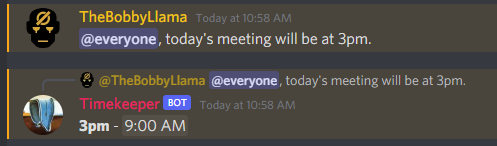
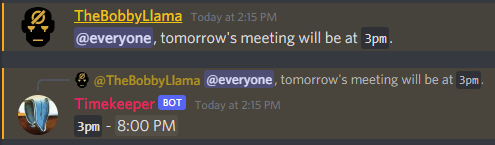
Timekeeper will now only convert times with code markdown (10:30 PM EST).  A user no longer needs to be set up in the system if they include the time zone (e.g. )

diff --git a/index.js b/index.js
@@ -1,5 +1,5 @@
 const firebaseAdmin = require("firebase-admin");
-const { Client, Intents, MessageActionRow, MessageSelectMenu } = require("discord.js");
+const { Client, Intents, MessageActionRow, MessageSelectMenu, MessageEmbed } = require("discord.js");
 const timezones = require("./timezones.json");
 const DST = require("./DST.json");
 const tzOverrides = require("./timezoneOverrides.json");
@@ -46,8 +46,6 @@ client.on("interactionCreate", async interaction => {
 
 		const tzResult = (await getUserInfo(interaction.user.id) || {});
 
-		console.log(tzResult);
-
 		rows.push(new MessageActionRow()
 		.addComponents(
 			new MessageSelectMenu()
@@ -64,7 +62,14 @@ client.on("interactionCreate", async interaction => {
 				.addOptions(DST.map(ds => { return { label: ds.label, value: dstPrefix + ":" + ds.label, default: tzResult.dst === ds.label }}))
 		));
 
-		await interaction.reply({ content: setupMessage, components: rows, ephemeral: true });
+		const docEmbed = new MessageEmbed()
+							.setTitle("Timekeeper Documentation")
+							.setDescription("More information on how the bot works can be found here.")
+							.setThumbnail("https://thebobbyllama.github.io/timekeeper-bot/assets/images/Timekeeper.png")
+							.setAuthor({ name: "The Bobby Llama", url: "https://discordapp.com/users/288977733390696448/" })
+							.setURL("https://thebobbyllama.github.io/timekeeper-bot/");
+
+		await interaction.reply({ content: setupMessage, components: rows, embeds: [ docEmbed ], ephemeral: true });
 	} else {
 		interaction.reply({ content: "Invalid command.", ephemeral: true });
 	}
@@ -103,21 +108,20 @@ client.on("messageCreate", async message => {
 	try {
 		if (message.author.bot) return;
 
-		const finds = message.content.match(/\b((([1-9]|1[0-9]|2[0-3])(:[0-5][0-9])?\s?[ap][m])|(([0-9]|1[0-9]|2[0-3]):[0-5][0-9]))( (e[ds]t|c[ds]t|m[ds]t|p[ds]t|utc))?\b/gi);
+		const finds = message.content.match(/`((([1-9]|1[0-9]|2[0-3])(:[0-5][0-9])?\s?[ap][m])|(([0-9]|1[0-9]|2[0-3]):[0-5][0-9]))( (e[ds]t|c[ds]t|m[ds]t|p[ds]t|utc))?`/gi);
 
 		// Keep going if we found a time - but not too many!
-		if ((finds?.length) && (finds.length <= 4)) {
+		if (finds?.length) {
+			const results = [];
 			const tzResult = await getUserInfo(message.author.id);
-			const zone = tzResult.timezone;
 
-			// Keep going if the message's author has a time zone registered.
-			if (zone) {
-				// Shift the times to UTC.
-				const adjustedTimes = finds.map(time => {
-					let curTime = time.toLowerCase();
-					let ampm;
-					let curTZ = tzOverrides.find(tz => curTime.endsWith(tz.key)) || tzResult;
+			// Shift the times to UTC.
+			finds.forEach(time => {
+				let curTime = time.toLowerCase().replace(/`/g, "");
+				let ampm;
+				let curTZ = tzOverrides.find(tz => curTime.endsWith(tz.key)) || tzResult;
 
+				if (curTZ?.timezone) {
 					const offset = timezones.find(tz => tz.value === curTZ.timezone).offset;
 					const dstSetting = DST.find(ds => ds.label === curTZ.dst) || {};
 					let dstOffset = 0;
@@ -177,16 +181,18 @@ client.on("messageCreate", async message => {
 
 					var result = new Date();
 					result.setUTCHours(Number(splits[0]) - offset - dstOffset, splits[1] || 0, 0, 0);
-					return result;
-				});
+					results.push([ time, result]);
+				}
+			});
 
-				// Spit out the results.
+			// Spit out the results, if we have any.
+			if (results.length) {
 				var output = "";
 
-				for (var i = 0; i < finds.length; i++) {
+				for (var i = 0; i < results.length; i++) {
 					if (i > 0) output += "\n";
 
-					output += "**" + finds[i] + "** - " + "<t:" + Math.floor(adjustedTimes[i].getTime() / 1000) + ":t>";
+					output += "**" + results[i][0] + "** - " + "<t:" + Math.floor(results[i][1].getTime() / 1000) + ":t>";
 				}
 
 				message.reply(output);

diff --git a/docs/index.html b/docs/index.html
@@ -15,28 +15,28 @@
 		<section>
 			<h2>What is Timekeeper?</h2>
 			<p>
-				Timekeeper is a <a href="https://discord.com/" target="_blank">Discord</a> bot for managing times for users across the world using Discord's <a href="https://hammertime.djdavid98.art/" target="_blank">timestamp</a> feature.  Once a user has set up their time zone with the bot, it will monitor their posts.  If the user posts anything with a time in it, the bot will reply with that time converted to a timestamp, which will display as the correct local time for whoever views it.
+				Timekeeper is a <a href="https://discord.com/" target="_blank">Discord</a> bot for managing times for users across the world using Discord's <a href="https://hammertime.djdavid98.art/" target="_blank">timestamp</a> feature.  All you have to do to start using the bot is mark the time as code using backticks (<code>`</code>).
 			</p>
 			<aside>
 				<div id="bot-demo"></div>
 			</aside>
 			<p>
-				Times will be recognized if they are formatted like <span class="command">8:30 PM</span>, <span class="command">8pm</span>, or <span class="command">8:30</span>.  The bot can convert more than one time in a post, but it will ignore posts with more than 4 time entries to avoid spamminess.
+				The bot may be used without any other configuration if you supply the timezone when writing a time - <i>e.g.</i> <code>3 PM EST</code>, <code>8:30 PDT</code>, <code>13:00 UTC</code>, and so on.  You can tag as many times as you like in a post and Timekeeper will convert them all.
 			</p>
 			<p>
-				A time zone may also be specified (<i>e.g.</i> <span class="command">6:00 PM EST</span>).  Timekeeper currently recognizes the following time zones: <span class="command">EST</span>/<span class="command">EDT</span>, <span class="command">CST</span>/<span class="command">CDT</span>, <span class="command">MST</span>/<span class="command">MDT</span>, <span class="command">PST</span>/<span class="command">PDT</span>, and <span class="command">UTC</span>.
+				The currently supported time zones are as follows: <code>EST</code>/<code>EDT</code>, <code>CST</code>/<code>CDT</code>, <code>MST</code>/<code>MDT</code>, <code>PST</code>/<code>PDT</code>, and <code>UTC</code>.
 			</p>
 		</section>
 		<section>
-			<h2>Using Timekeeper</h2>
+			<h2>Automatic Time Conversion</h2>
 			<p>
-				In a server that has the bot, any user can set up their time zone and daylight savings info by using the <span class="command">/timekeeper</span> command.  This will show the user a pair of dropdowns for selecting their settings.
+				If you would like to use the bot for local times without having to specify your own time zone, you may use the <code>/timekeeper</code> command to select your own time zone and daylight savings settings.
 			</p>
 			<aside>
 				<div id="config-blank"></div>
 			</aside>
 			<p>
-				After a user has entered their settings, then the bot will start working!  Whenever that user makes a post, the bot will check it to see if it includes times.  If any times are found, it will reply to the post with those times as a timestamp!
+				Once you have set yourself up, you may omit the time zone from any times you tag and Timekeeper will convert them from your local time - <i>e.g.</i> <code>3 PM</code>, <code>8:30</code>
 			</p>
 		</section>
 		<section>

diff --git a/docs/assets/css/style.css b/docs/assets/css/style.css
@@ -47,6 +47,15 @@ body {
 	font-family: sans-serif;
 }
 
+code {
+	background-color: var(--page-background);
+	border-radius: 4px;
+	font-family: 'Courier New', Courier, monospace;
+	font-weight: bold;
+	padding: 2px 4px 0px 4px;
+	white-space: nowrap;
+}
+
 h1, h2, h3, h4 {
 	color: var(--title-background);
 	font-family: 'Roboto', sans-serif;
@@ -117,29 +126,20 @@ section:hover h2::after {
 
 #bot-demo {
 	background-image: url('../images/bot-demo.png');
-	height: 146px;
-	width: 497px;
+	height: 145px;
+	width: 495px;
 }
 
 #config-blank {
 	background-image: url('../images/config-blank.png');
-	height: 230px;
-	width: 1045px;
+	height: 348px;
+	width: 1027px;
 }
 
 #config-complete {
 	background-image: url('../images/config-complete.png');
 	height: 502px;
 	width: 1045px;
-}
-
-.command {
-	background-color: var(--page-background);
-	border-radius: 4px;
-	font-family: 'Courier New', Courier, monospace;
-	font-weight: bold;
-	padding: 0px 4px;
-	white-space: nowrap;
 }
 
 @media screen and (max-width: 440px) {
